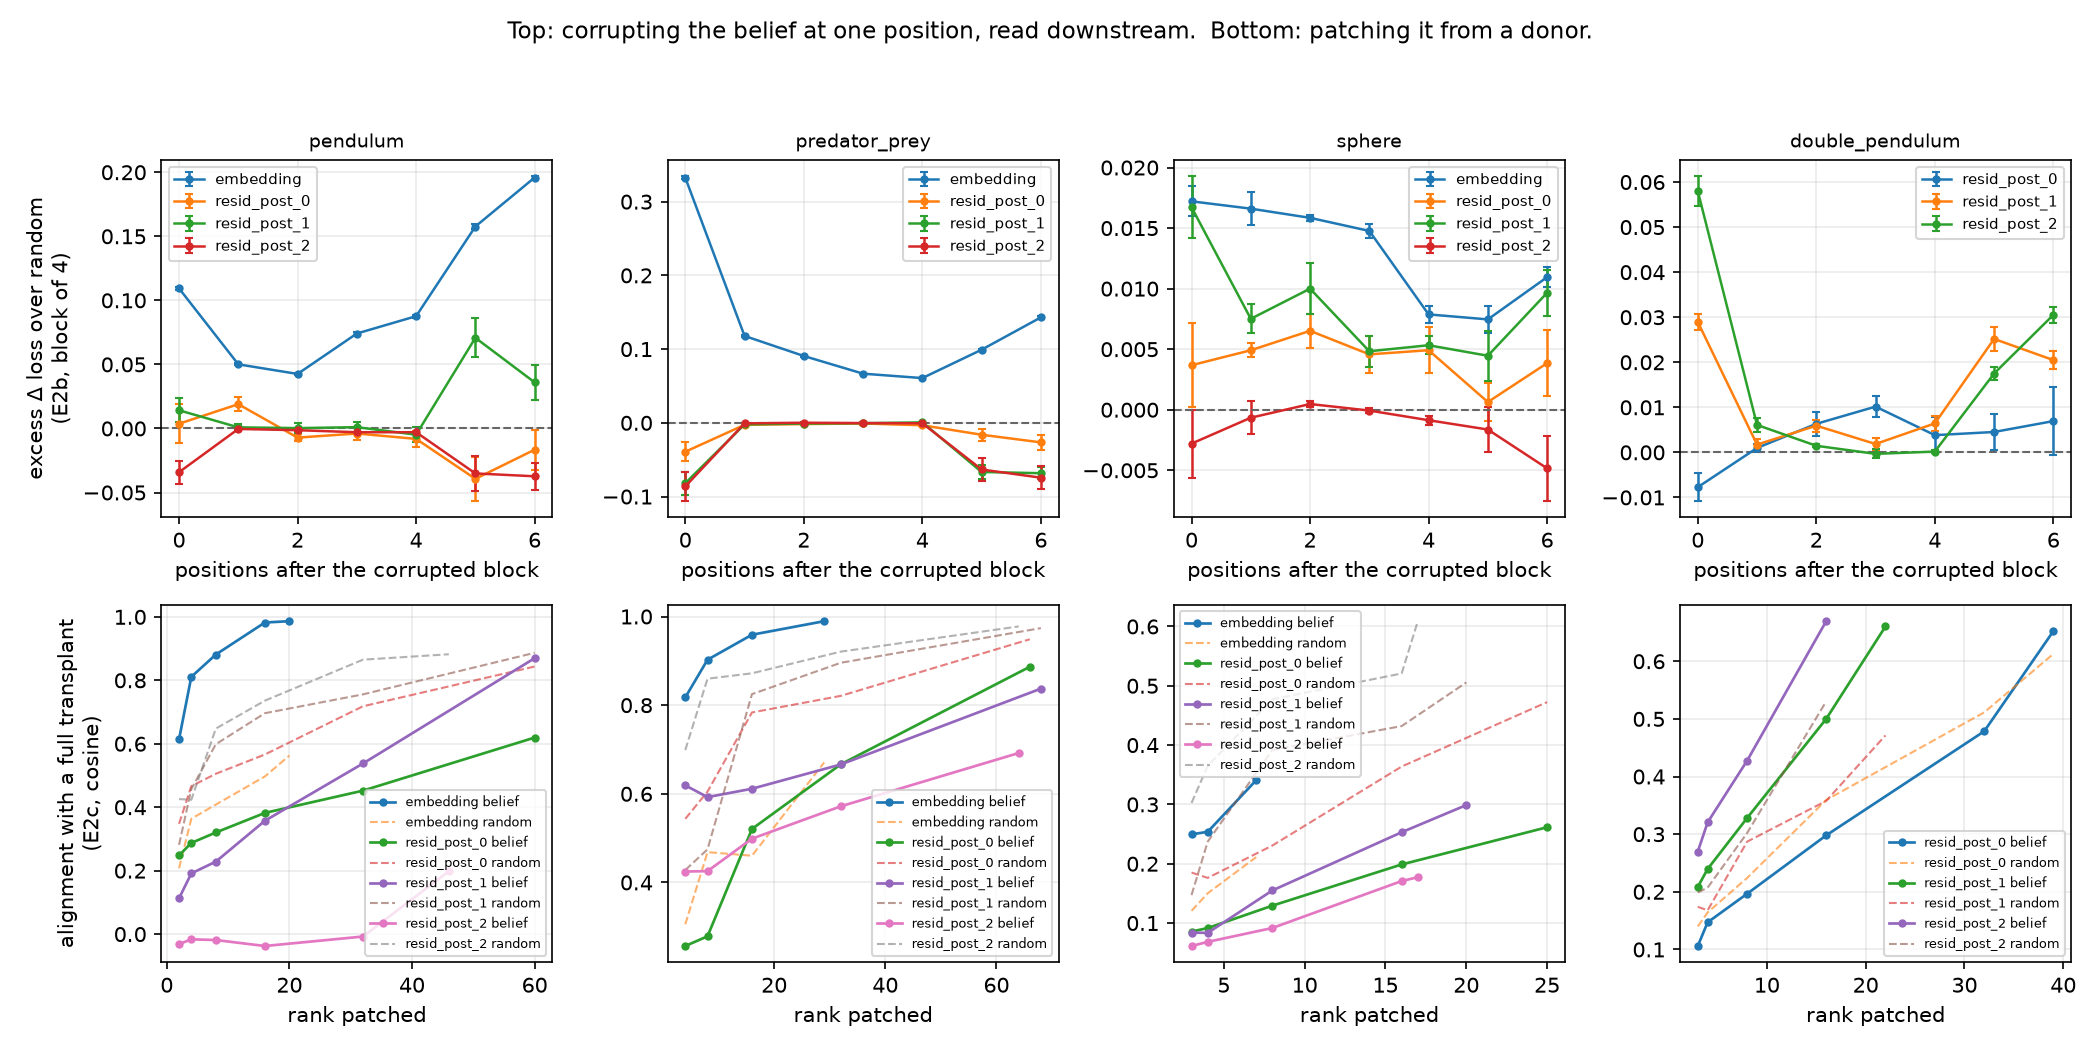
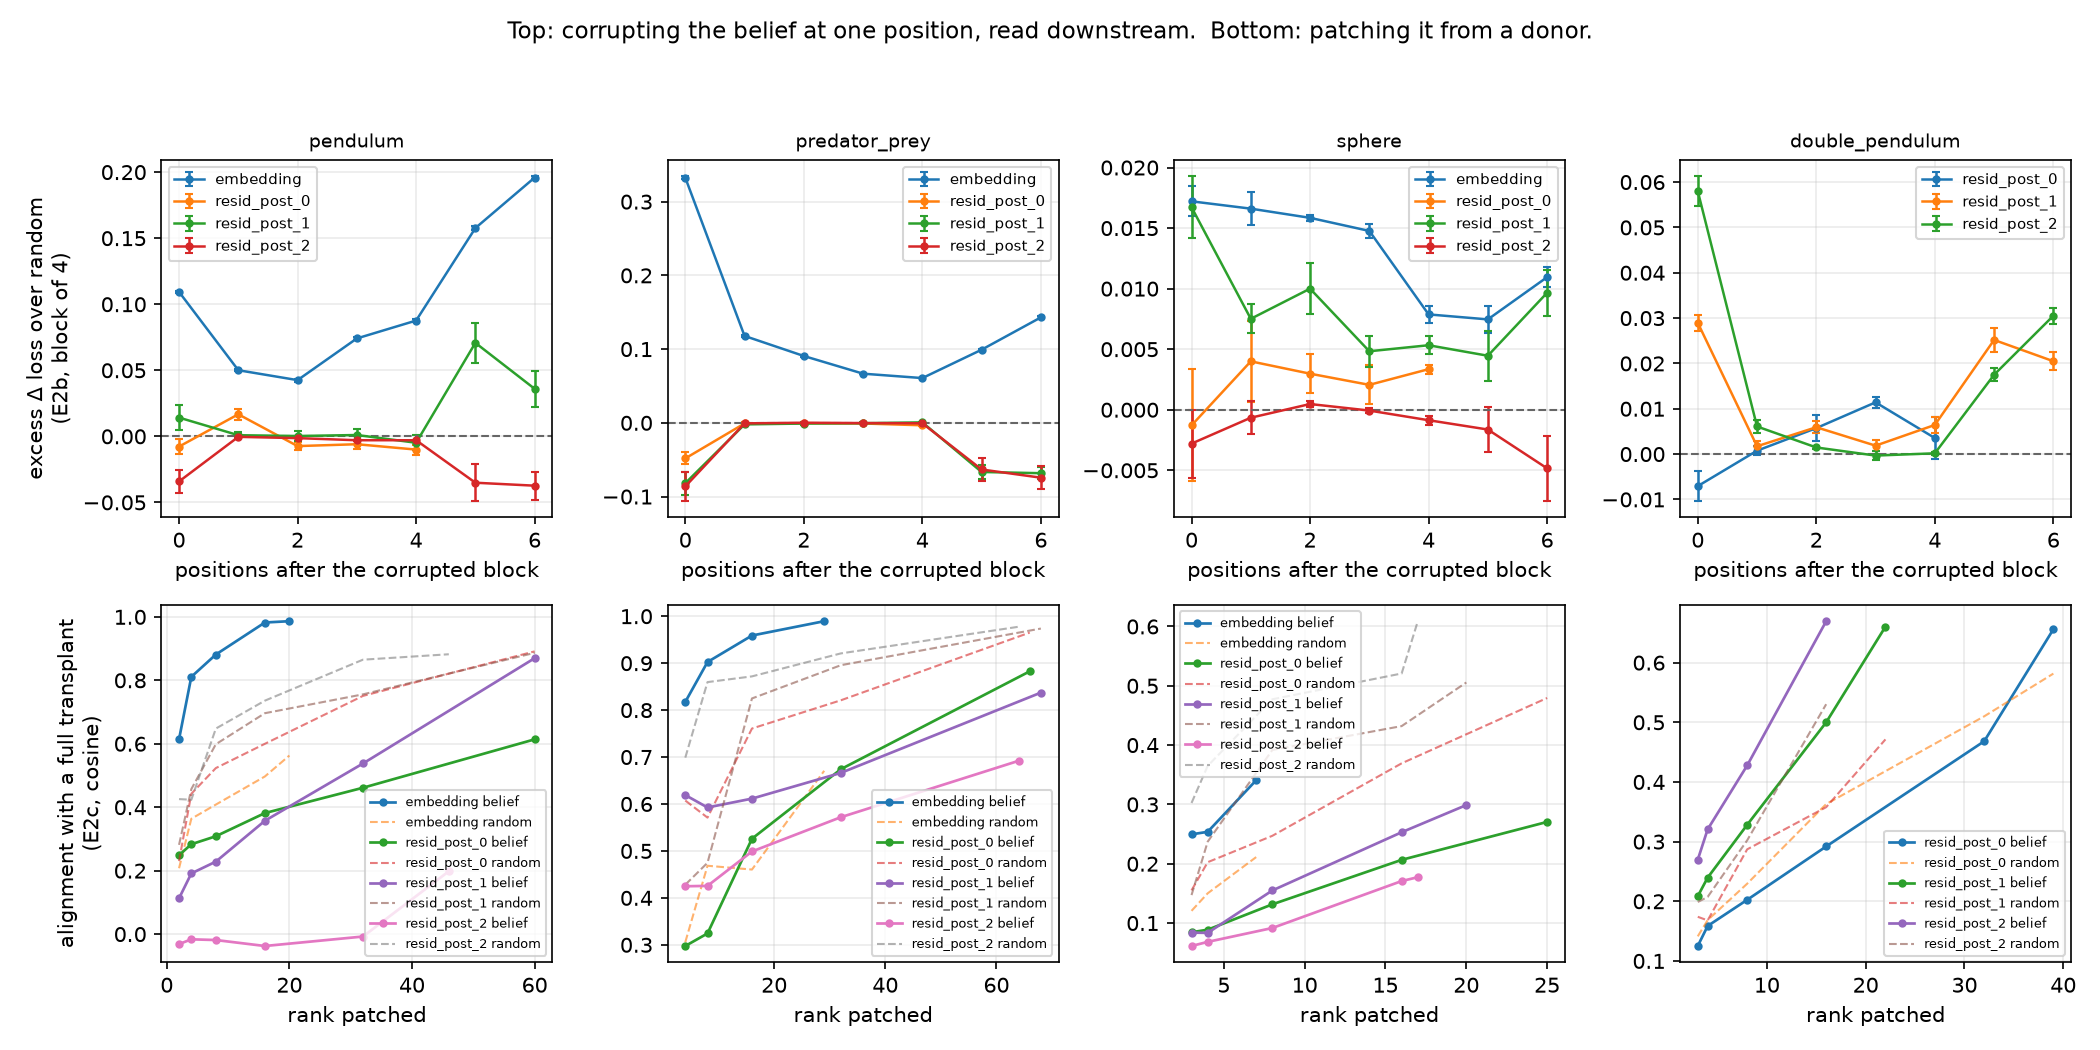
docs: complement patching at resid_post_0, merged with the full-depth causal run

diff --git a/docs/PHASE5-RESULTS.md b/docs/PHASE5-RESULTS.md
@@ -381,6 +381,30 @@ The full erasure basis is not load-bearing because it is dominated by redundant
 low-variance directions the loss does not depend on; the unique 20 of its 60
 directions are.
 
+**R4 by patching, not erasure: split, and weaker than it looks.** The same
+belief-minus-metric complement, at `resid_post_0`, driven the other way -- patch
+the complement from a donor sequence and ask whether the logits move where the
+HMM says they should. Alignment cosine at the full complement rank:
+
+| system | rank | belief complement | matched random | excess |
+|---|---|---|---|---|
+| pendulum | 19 | +0.427 | +0.612 ± 0.053 | **-3.5 sd** |
+| predator_prey | 39 | +0.937 | +0.839 ± 0.004 | +22.3 sd (**+0.098 absolute**) |
+| sphere | 24 | +0.330 | +0.415 ± 0.031 | **-2.7 sd** |
+| double_pendulum | 29 | +0.548 | +0.426 ± 0.037 | +3.3 sd (+0.122 absolute) |
+
+Two positive, two negative, and the sd units are misleading in the one large
+cell: predator_prey's random control has a standard deviation of 0.004, so a
+0.098 absolute gap becomes "+22 sd". Read the absolute column.
+
+This matters for how much weight the erasure result above can carry. Erasure and
+patching ask different questions -- *is this subspace load-bearing* versus *does
+moving it move the model the way the generative model says it should* -- and the
+belief complement passes the first in 10 of 14 cells while passing the second in
+2 of 4. A representation the model genuinely used as a belief should do both.
+The honest summary is that the complement contrast is a real effect on the loss
+and an inconsistent one on the logit direction.
+
 This is the contrast phase 4 should have run. It does not rescue claim 3 as
 stated -- the phase-4 numbers remain unusable -- but it replaces the null with a
 positive result at the right depth and the right rank.
